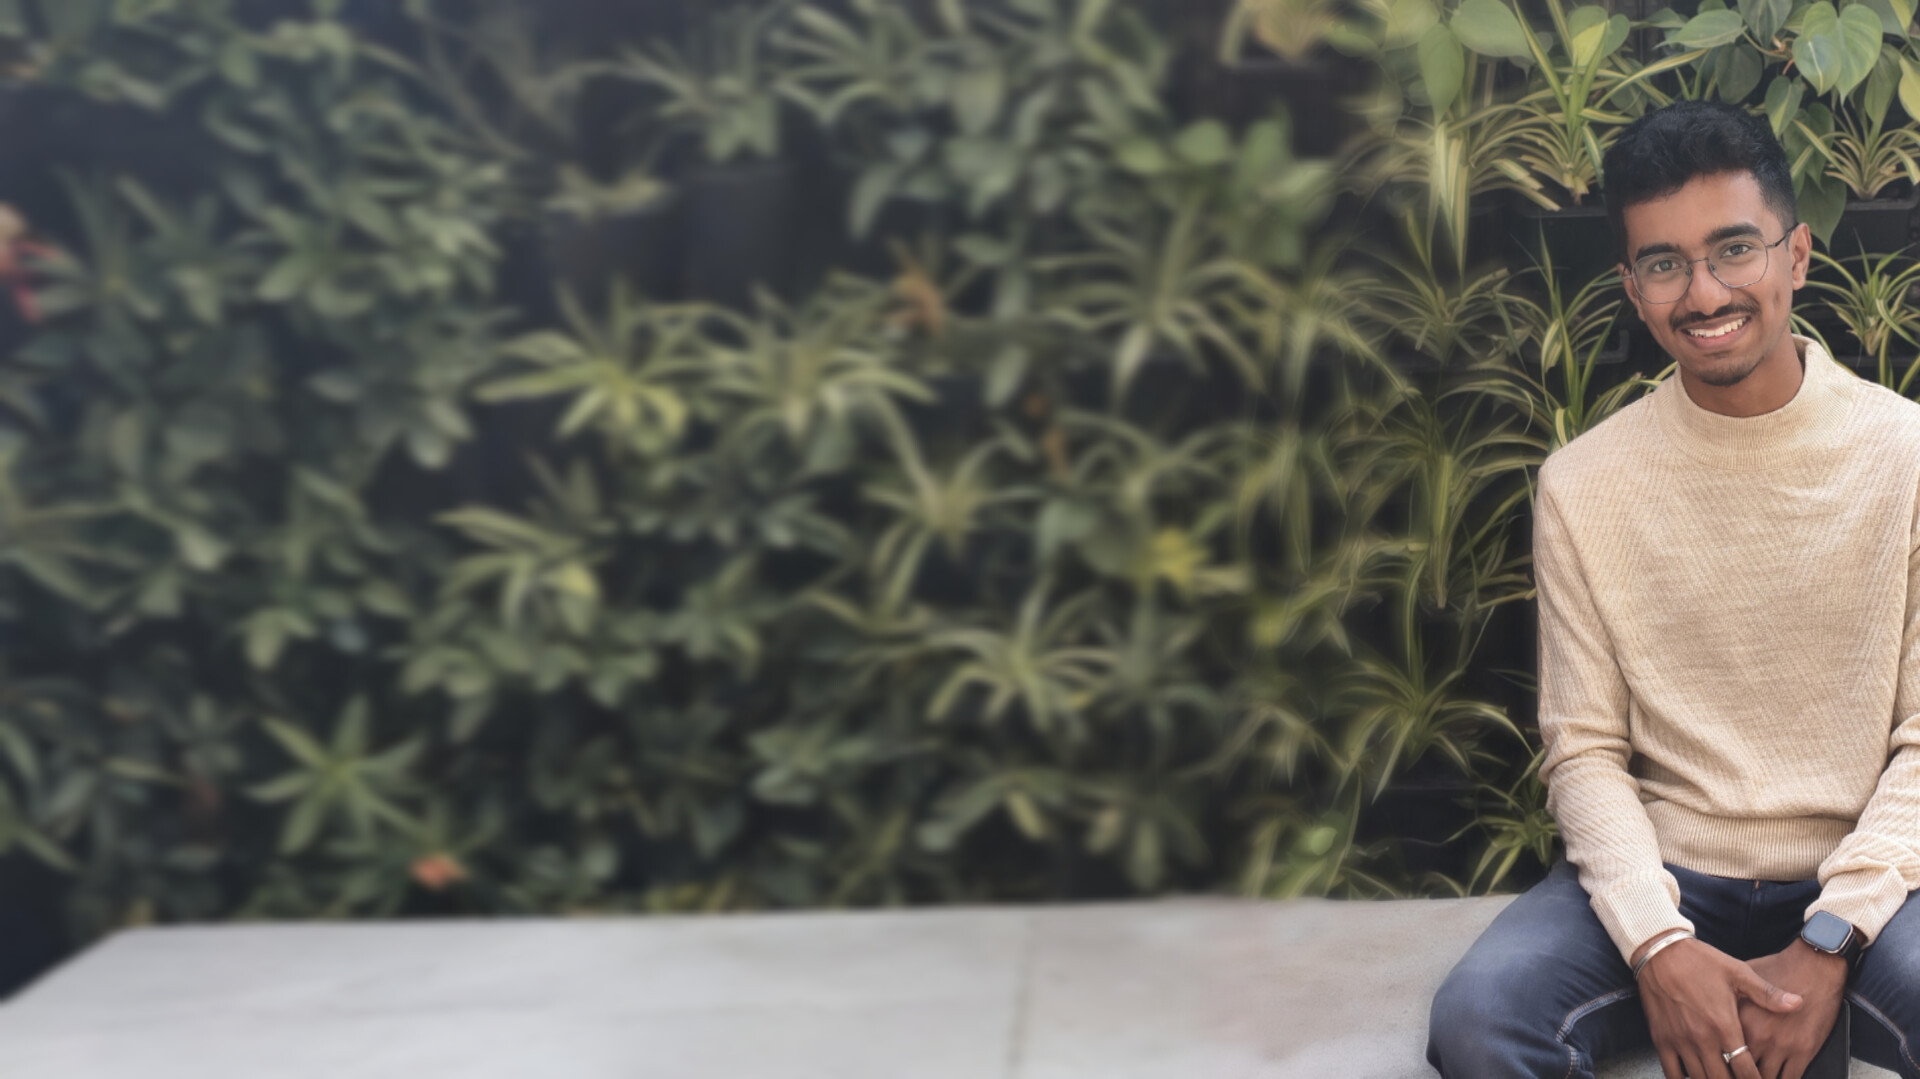
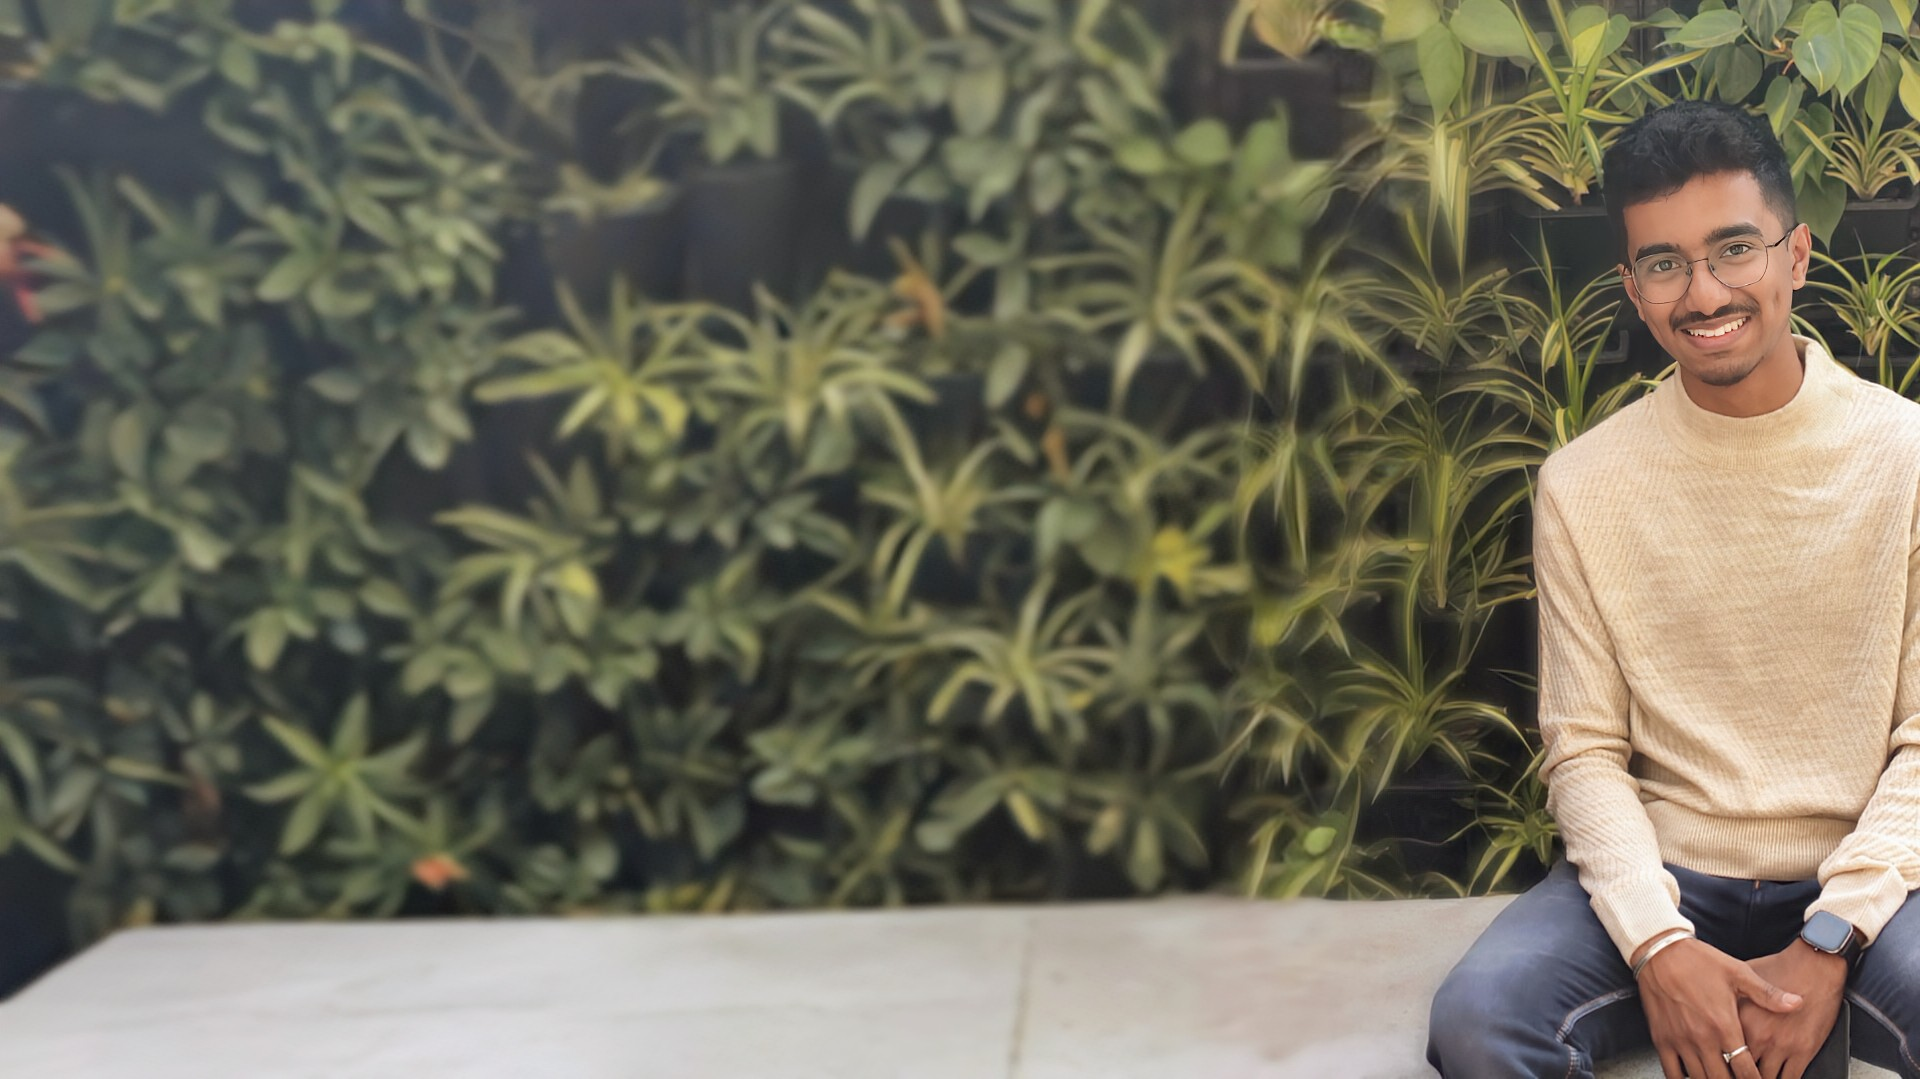
Hero Image Centering Issue Resolved

diff --git a/index.html b/index.html
@@ -4,7 +4,9 @@
     <meta charset="UTF-8">
     <meta name="viewport" content="width=device-width, initial-scale=1.0">
     <title>Aditya Ladhane - Home</title>
+    <!-- Tailwind CSS CDN -->
     <script src="https://cdn.tailwindcss.com"></script>
+    <!-- Google Fonts -->
     <link href="https://fonts.googleapis.com/css2?family=Inter:wght@300;400;600;700&display=swap" rel="stylesheet">
     <link href="https://fonts.googleapis.com/css2?family=Dancing+Script:wght@700&display=swap" rel="stylesheet">
     <link href="https://fonts.googleapis.com/css2?family=Playfair+Display:wght@700&display=swap" rel="stylesheet">
@@ -96,19 +98,28 @@
         .hero-bg-image {
             background-image: url('Hero.jpg'); /* Your specified background image */
             background-size: cover; /* Cover the entire section */
-            background-position: center; /* Center the image */
+            background-position: center; /* Default: center for larger screens */
             background-repeat: no-repeat; /* Do not repeat */
             position: relative; /* Needed for overlay positioning */
             z-index: 0; /* Ensure it's behind content but above overlay */
         }
-        /* REMOVED: .hero-bg-image::before overlay styles */
+        /* Removed .hero-bg-image::before overlay styles */
         .hero-content {
             position: relative;
             z-index: 2; /* Ensure content is above the overlay */
         }
+
+        /* Adjust background position for smaller screens */
+        @media (max-width: 767px) { /* Tailwinds 'md' breakpoint is 768px, so this covers 'sm' screens */
+            .hero-bg-image {
+                /* Shift background to the right to keep the person visible */
+                background-position: right center; /* Or 'right 10%' if you need a specific percentage */
+            }
+        }
     </style>
 </head>
 <body class="antialiased">
+    <!-- Navbar -->
     <nav class="bg-white shadow-md py-4 px-6 md:px-12 fixed w-full z-10 rounded-b-xl">
         <div class="max-w-7xl mx-auto flex justify-between items-center">
             <a href="index.html" class="flex items-baseline space-x-2">
@@ -124,6 +135,7 @@
                 <a href="gallery.html" class="text-gray-700 hover:text-green-800 font-medium transition-colors rounded-md px-3 py-2">Gallery</a>
                 <a href="index.html#contact" class="text-gray-700 hover:text-green-800 font-medium transition-colors rounded-md px-3 py-2">Contact</a>
             </div>
+            <!-- Mobile Menu Button -->
             <div class="flex items-center md:hidden space-x-2">
                 <button id="mobile-menu-button" class="p-2 rounded-md focus:outline-none focus:ring-2 focus:ring-green-700">
                     <svg class="w-6 h-6 text-gray-700" fill="none" stroke="currentColor" viewBox="0 0 24 24" xmlns="http://www.w3.org/2000/svg">
@@ -132,6 +144,7 @@
                 </button>
             </div>
         </div>
+        <!-- Mobile Menu (hidden by default) -->
         <div id="mobile-menu" class="md:hidden mt-4 hidden">
             <a href="index.html" class="block px-4 py-2 text-gray-700 hover:bg-green-50 hover:text-green-800 rounded-md transition-colors">Home</a>
             <a href="about.html" class="block px-4 py-2 text-gray-700 hover:bg-green-50 hover:text-green-800 rounded-md transition-colors">About</a>
@@ -143,6 +156,8 @@
         </div>
     </nav>
 
+    <!-- Development Warning Banner - START -->
+    <!-- To remove this later, simply delete this entire div and its corresponding JavaScript below -->
     <div id="development-warning-banner" class="bg-yellow-100 border-l-4 border-yellow-500 text-yellow-800 p-4 sticky top-0 md:top-[64px] z-20 flex items-center justify-between shadow-md" role="alert">
         <div class="flex items-center">
             <svg class="w-6 h-6 mr-3" fill="currentColor" viewBox="0 0 20 20" xmlns="http://www.w3.org/2000/svg">
@@ -160,8 +175,12 @@
             </svg>
         </button>
     </div>
+    <!-- Development Warning Banner - END -->
+
     <main>
+        <!-- Hero Section -->
         <section class="min-h-screen flex items-center justify-center text-white py-20 px-6 md:pt-0 hero-bg-image">
+            <!-- Overlay for text readability - REMOVED -->
             <div class="container mx-auto flex flex-col md:flex-row items-center justify-between pl-8 md:pl-16 hero-content">
                 <div class="text-center md:text-left mb-10 md:mb-0 md:w-1/2 ">
                     <h1 class="text-5xl md:text-6xl font-extrabold leading-tight mb-4 animate-fade-in-down hero-title-font">
@@ -172,21 +191,25 @@
                     </p>
                 </div>
                 <div class="md:w-1/3 flex justify-center mt-8">
-                    </div>
+                    <!-- Profile Picture removed as per request -->
+                </div>
             </div>
         </section>
 
+        <!-- Testimonials Section -->
         <section class="py-16 bg-gray-50">
             <div class="max-w-7xl mx-auto px-6">
                 <h2 class="text-4xl font-bold mb-12 text-center section-title text-green-800 mx-auto">What People Say</h2>
                 
                 <div class="testimonials-container overflow-hidden">
                     <div id="testimonials-wrapper" class="testimonials-wrapper">
-                        </div>
+                        <!-- Testimonial cards will be dynamically inserted here -->
+                    </div>
                 </div>
             </div>
         </section>
 
+        <!-- Contact Section -->
         <section id="contact" class="py-16 px-6 bg-gray-100 rounded-b-xl shadow-inner md:py-20">
             <div class="max-w-2xl mx-auto text-center">
                 <h2 class="text-4xl font-bold mb-8 section-title text-green-800 mx-auto">Get in touch</h2>
@@ -208,6 +231,7 @@
         </section>
     </main>
 
+    <!-- Footer -->
     <footer class="bg-gray-800 text-white py-8 px-6 text-center rounded-t-xl">
         <div class="max-w-7xl mx-auto">
             <p>&copy; 2025 Aditya Ladhane. All rights reserved.</p>
